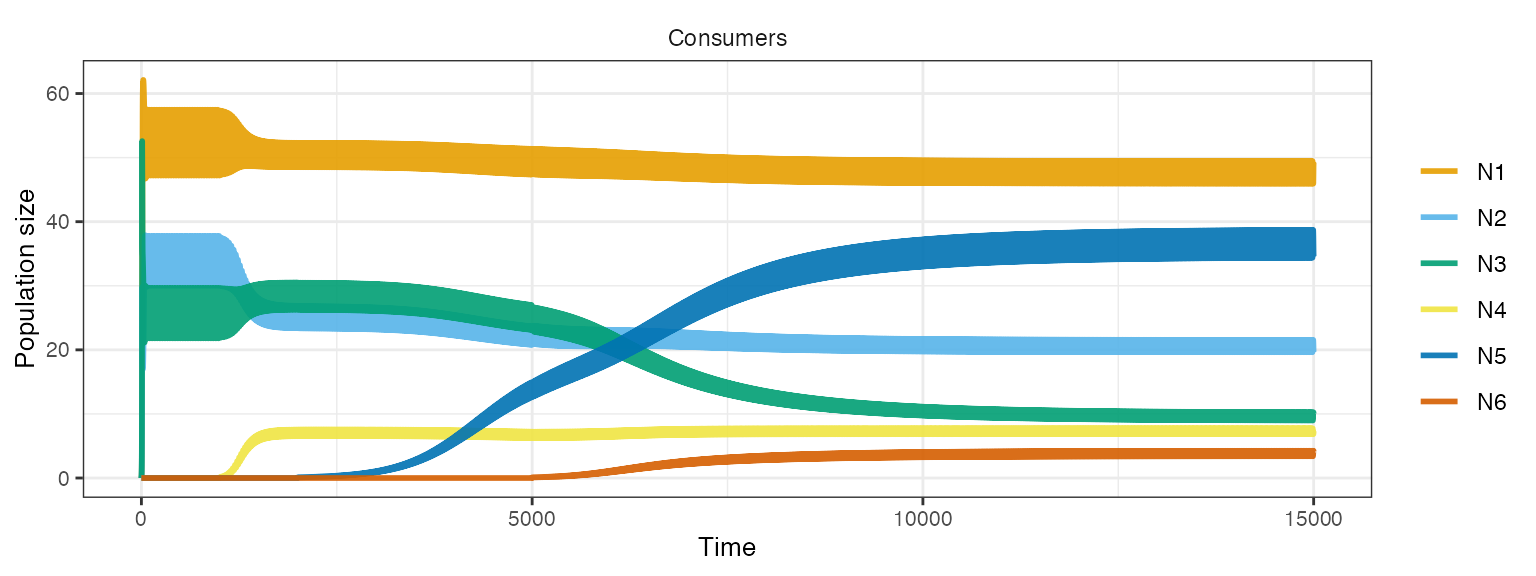
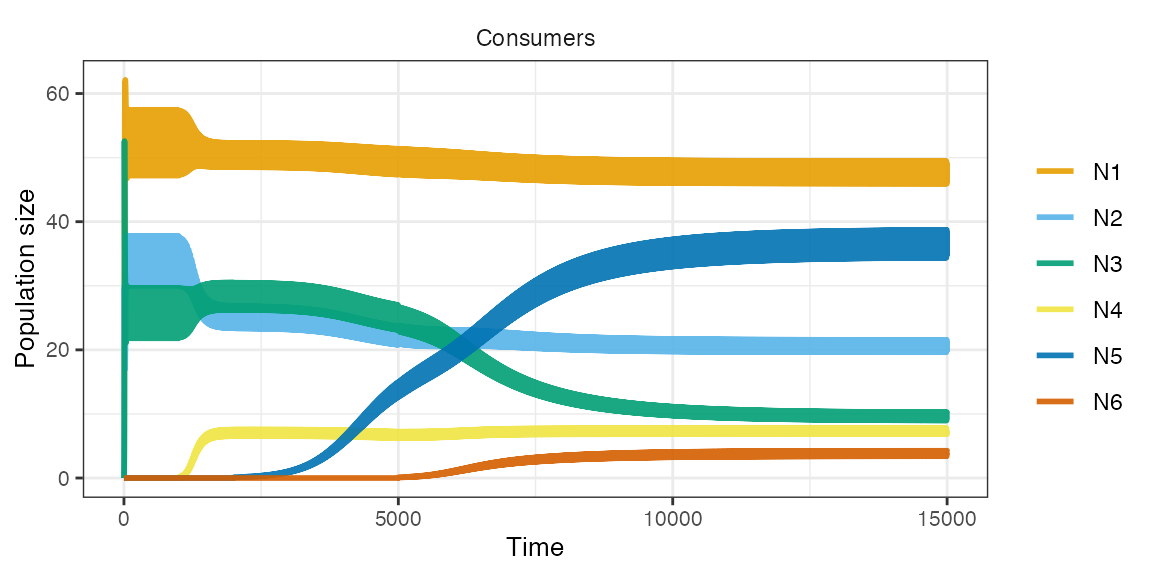
Built site for rescomp: 0.0.0.9000@47a8861

diff --git a/reference/spec_rescomp.html b/reference/spec_rescomp.html
@@ -177,23 +177,24 @@ give the maximum growth rates (type 2 or 3) or resource consumption rate
 constants (type 1, or type 2 when parameterised using conversion
 efficiencies with <code>effmatrix</code> as opposed to resource quotas with
 <code>qmatrix</code>). The number of rows and columns should be equal to <code>spnum</code>
-and <code>resnum</code> respectively. If <code>timepars</code> = TRUE, expects a list of
-length 2.</p></td>
+and <code>resnum</code> respectively. For time dependent parameters
+(with <code>timepars</code> = TRUE), expects a list of length 2.</p></td>
     </tr>
     <tr>
       <th>kmatrix</th>
       <td><p>Numeric matrix or list of matrices, the elements of which
 give the of half saturation constants (type 2 or type 3, ignored if
 funcresp = "type1"). The number of rows and columns should be equal to
-<code>spnum</code> and <code>resnum</code> respectively. If <code>timepars</code> = TRUE, expects a list
-of length 2.</p></td>
+<code>spnum</code> and <code>resnum</code> respectively. For time dependent parameters
+(with <code>timepars</code> = TRUE), expects a list of length 2.</p></td>
     </tr>
     <tr>
       <th>qmatrix</th>
       <td><p>Numeric matrix or list of matrices, the elements of which
 give the resource quotas. The number of rows and columns should be equal to
-<code>spnum</code> and <code>resnum</code> respectively. If <code>timepars</code> = TRUE, expects a list
-of length 2. Default = 0.001 for all consumers.</p></td>
+<code>spnum</code> and <code>resnum</code> respectively. For time dependent parameters
+(with <code>timepars</code> = TRUE), expects a list of length 2.
+Default = 0.001 for all consumers.</p></td>
     </tr>
     <tr>
       <th>effmatrix</th>
@@ -218,8 +219,10 @@ If FALSE resources grow logistically.</p></td>
     </tr>
     <tr>
       <th>mort</th>
-      <td><p>Numeric vector of length 1 or length = <code>spnum</code> specifying
-density independent mortality rates.</p></td>
+      <td><p>Numeric vector or list of vectors of length 1 or
+length = <code>spnum</code>, specifying density independent mortality rates.
+For time dependent parameters
+(with <code>timepars</code> = TRUE), expects a list of length 2.</p></td>
     </tr>
     <tr>
       <th>resspeed</th>

diff --git a/index.html b/index.html
@@ -79,8 +79,8 @@
 <a href="#rescomp" class="anchor"></a>rescomp</h1></div>
 <!-- badges: start -->
 
-<p><em>Disclaimer: <code>rescomp</code> is still in the very early stages of development, with functions, arguments and workflows still liable to change with high frequency. I have made the repository public in its immature state primarily for ease of sharing with friends, collaborators and students during development. Please use with caution and perform your own sanity checks! Feedback and pull requests very welcome.</em></p>
-<p>The goal of the R package <code>rescomp</code> is to simplify the process of defining, simulating and visualizing the output of ODE models of ecological consumer-resource interactions. In essence, it is a consumer-resource modelling focused interface to the excellent <code>deSolve</code> package.</p>
+<p><em>Disclaimer: <code>rescomp</code> is still in the early stages of development. Please use with caution and perform your own sanity checks. Feedback and pull requests very welcome.</em></p>
+<p><code>rescomp</code> is an R package that supports the definition, simulation and visualization of ODE models of ecological consumer-resource interactions. In essence, it is a consumer-resource modelling focused interface to the excellent <code>deSolve</code> package.</p>
 <div id="installation" class="section level2">
 <h2 class="hasAnchor">
 <a href="#installation" class="anchor"></a>Installation</h2>

diff --git a/articles/classic-results.html b/articles/classic-results.html
@@ -151,7 +151,7 @@
 <div class="sourceCode" id="cb5"><pre class="downlit sourceCode r">
 <code class="sourceCode R"><span class="fu"><a href="../reference/plot_rescomp.html">plot_rescomp</a></span><span class="op">(</span><span class="va">m1</span>, resources <span class="op">=</span> <span class="cn">FALSE</span><span class="op">)</span></code></pre></div>
 <div class="figure">
-<img src="classic-results_files/figure-html/unnamed-chunk-5-1.png" alt="Reproduces Fig 1c from Huisman and Weissing (1999)." width="768"><p class="caption">
+<img src="classic-results_files/figure-html/unnamed-chunk-5-1.png" alt="Reproduces Fig 1c from Huisman and Weissing (1999)." width="576"><p class="caption">
 Reproduces Fig 1c from Huisman and Weissing (1999).
 </p>
 </div>
